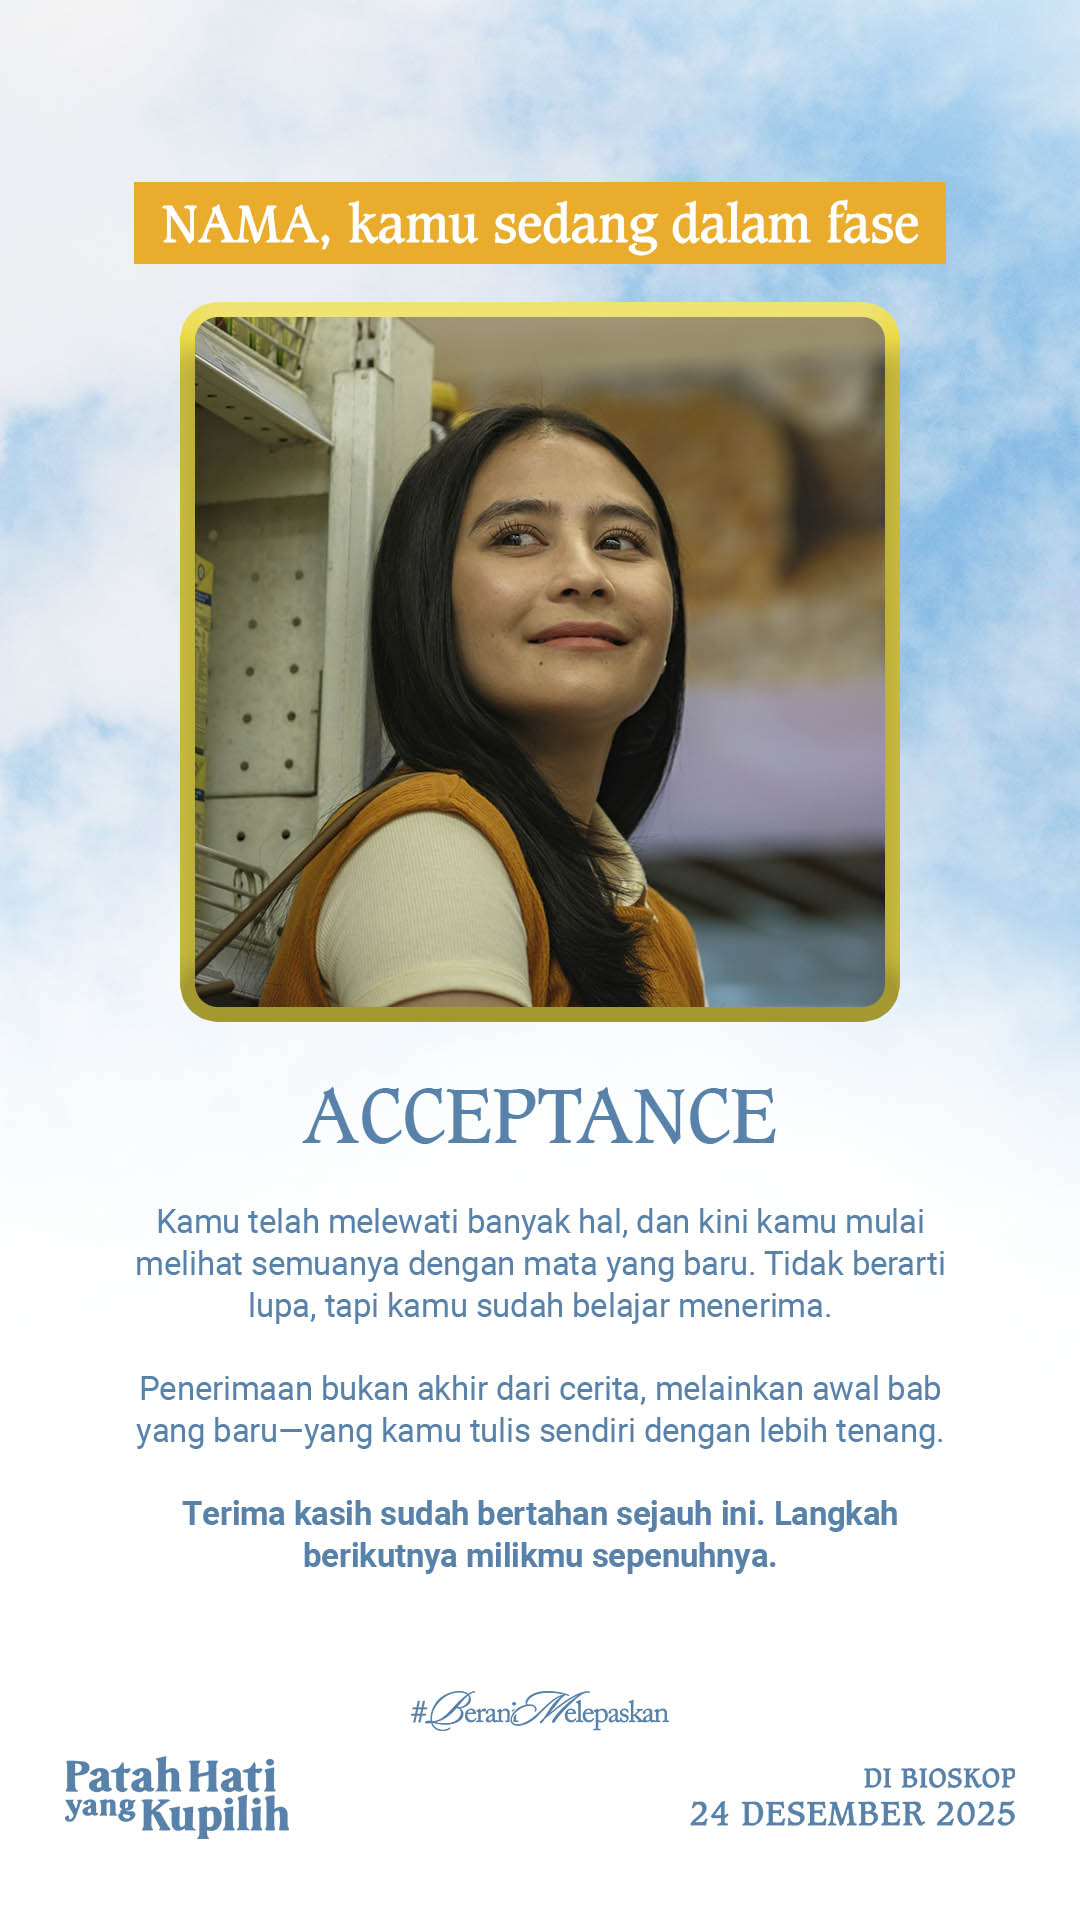
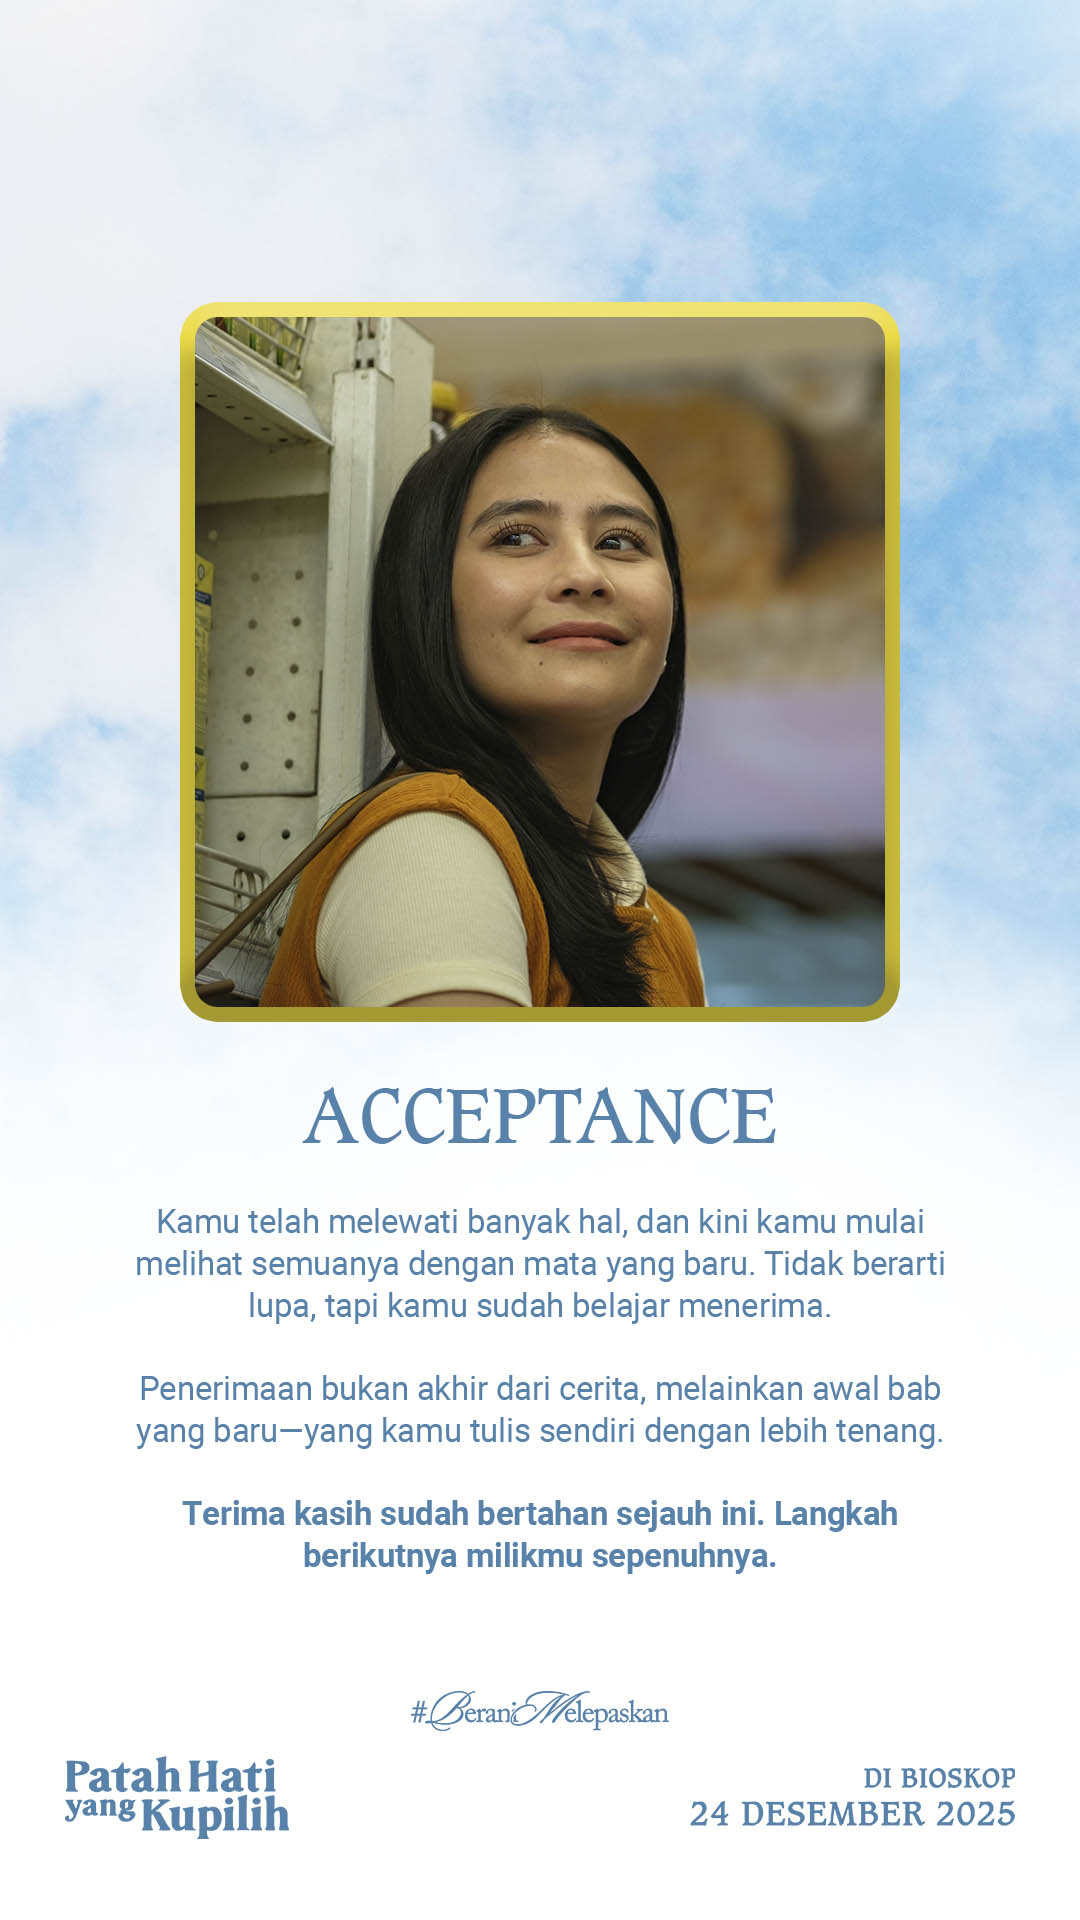
update foto poster

Changed region(s): [[0.1222, 0.0938, 0.8861, 0.1562]]

diff --git a/app/Http/Controllers/PsikotesController.php b/app/Http/Controllers/PsikotesController.php
@@ -656,7 +656,7 @@ Terima kasih sudah bertahan sejauh ini. Langkah berikutnya milikmu sepenuhnya.',
         $x = $bannerLeft + ($bannerWidth - $textW) / 2 - $bbox[0];
 
         // Y boleh pakai yang lama (kalau sudah pas)
-        $bannerCenterY = 260;                    // kalau mau bisa di-tweak 250–265
+        $bannerCenterY = 200;                    // kalau mau bisa di-tweak 250–265
         $y = $bannerCenterY + $textH / 2;
 
 
